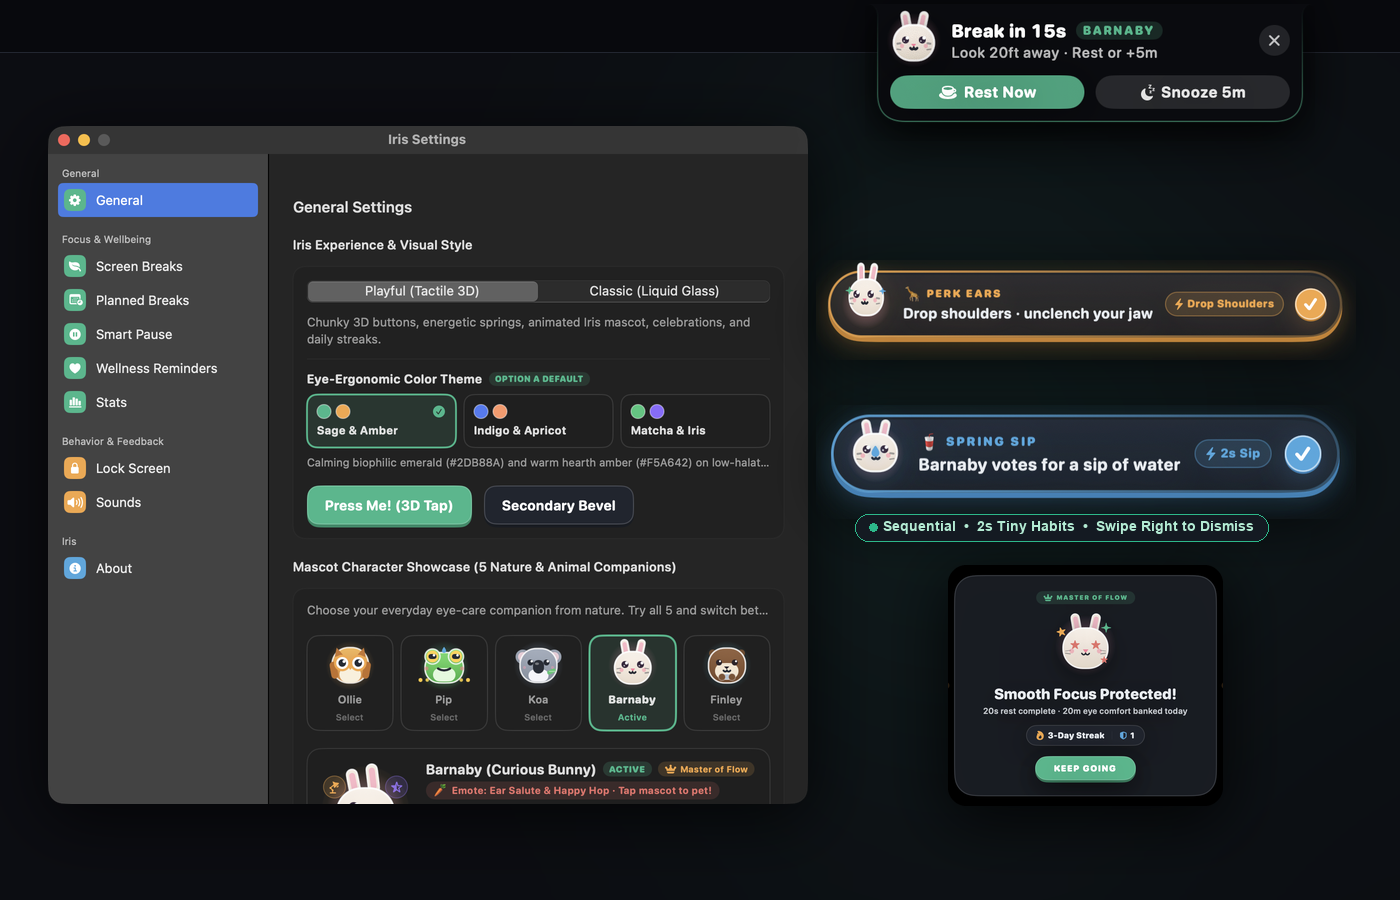
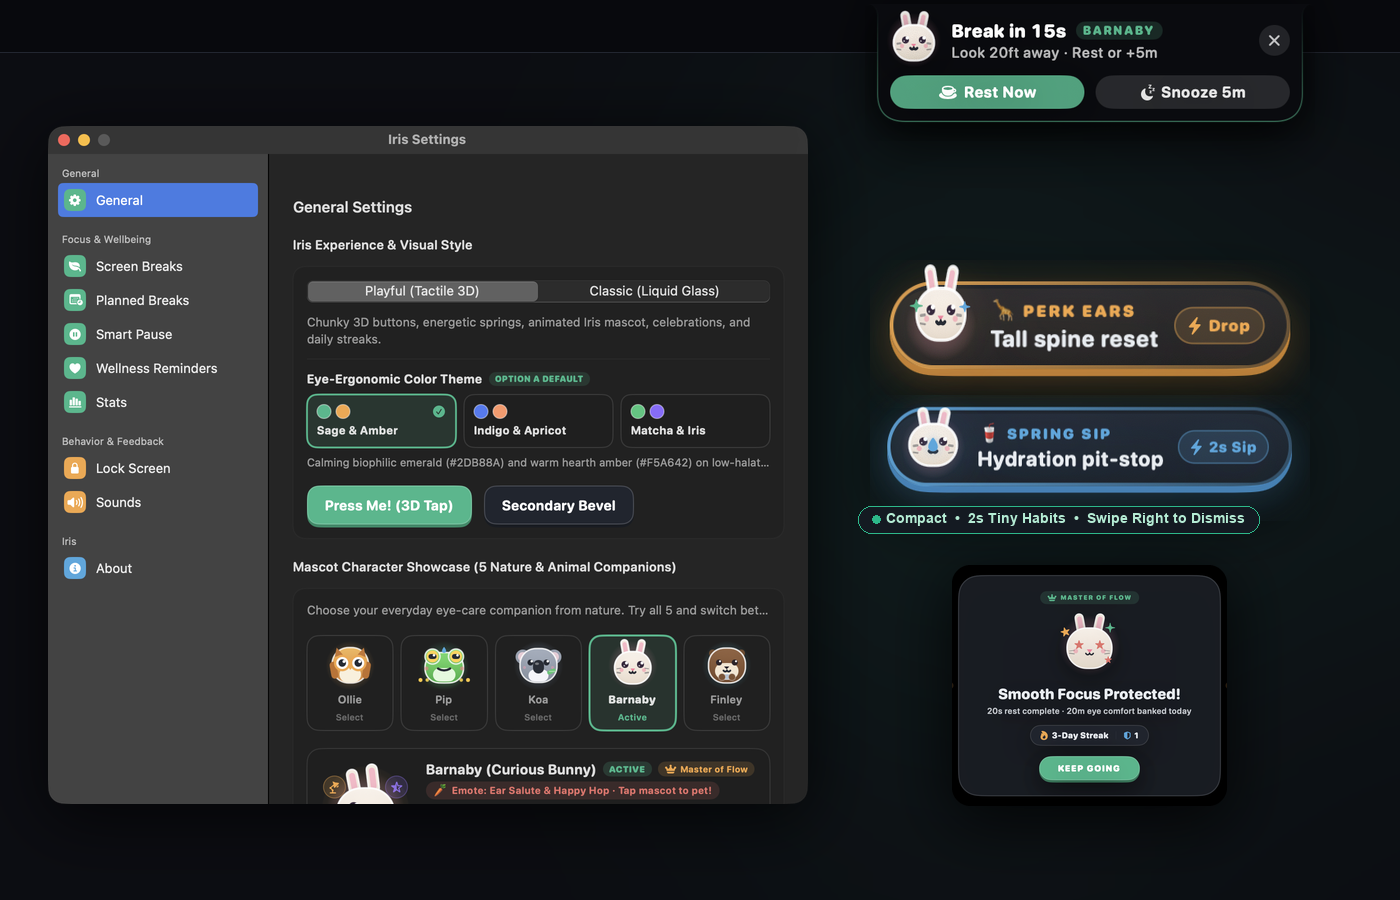
Docs: Compact tick-free wellness popup screenshots & copy

Changed region(s): [[0.5836, 0.28, 0.9829, 0.5911], [0.6757, 0.6533, 0.86, 0.8711]]

diff --git a/docs/index.html b/docs/index.html
@@ -921,7 +921,7 @@
           <div class="card-content">
             <span class="card-tag tag-green">Ambient &amp; Habit Loop</span>
             <h3>Notch Whisper &amp; Swipeable Popups</h3>
-            <p>Subtle obsidian bezel lip peeking out below your MacBook notch (toggleable on/off in Settings) that expands on hover with Rest Now and Snooze 5m controls—paired with sequential floating wellness pills featuring 25 bespoke mascot emotes, 2-second tiny habits, and smooth right-swipe dismissal.</p>
+            <p>Subtle obsidian bezel lip peeking out below your MacBook notch (toggleable on/off in Settings) that expands on hover with Rest Now and Snooze 5m controls—paired with compact, tick-free sequential wellness pills featuring 25 bespoke mascot emotes, 2-second tiny habits, and smooth right-swipe dismissal.</p>
             <div class="card-pills">
               <span class="pill">Notch Whisper</span>
               <span class="pill">Swipe Right Dismiss</span>

diff --git a/README.md b/README.md
@@ -103,9 +103,9 @@ Unlike heavyweight Electron alternatives, Iris consumes virtually **zero CPU**, 
 * **Firm**: Requires holding the skip button for 3 seconds to prevent accidental or impulsive skips.
 * **Strict**: Unskippable break screen ensuring full eye relaxation.
 
-### 8. Sequential Swipeable Wellness Popups & 2s Tiny Habits
-* One-by-one sequential micro-reminders for **Posture Correction**, **Drinking Water**, **Eye Blinking**, **Stretching**, and **Deep Breathing**, starring all 5 mascots with 25 bespoke animated emotes.
-* **Right-Swipe to Dismiss & 2-Second Tiny Habits**: Swipe right smoothly on any floating popup pill to dismiss previews, or tap the low-friction habit chip (`2s Sip`, `Drop Shoulders`, `Slow Exhale`) for instant wellness credit.
+### 8. Compact Swipeable Wellness Popups & 2s Tiny Habits
+* One-by-one sequential, compact, tick-free micro-reminders for **Posture Correction**, **Drinking Water**, **Eye Blinking**, **Stretching**, and **Deep Breathing**, starring all 5 mascots with 25 bespoke animated emotes.
+* **Right-Swipe to Dismiss & 2-Second Tiny Habits**: Tap anywhere on a popup pill to complete, swipe right to dismiss previews, or tap the compact habit chip (`2s Sip`, `3× Blink`, `Drop`, `Reach`, `Exhale`) for instant wellness credit.
 * **Custom Screen Positioning**: In-app vertical (2% to 90%) and horizontal position sliders with smooth, unclipped ambient bloom.
 
 ---
